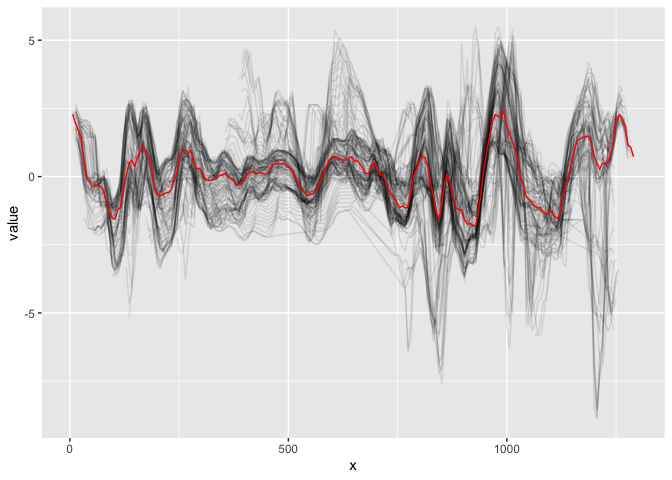
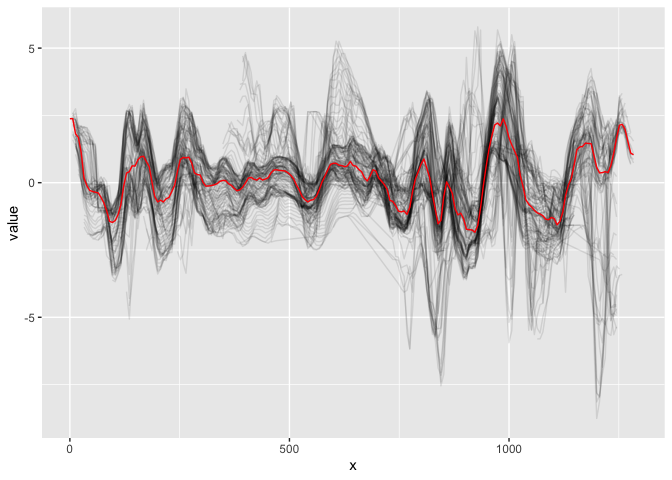
Unify changes in approx range with scaling

diff --git a/README.md b/README.md
@@ -7,7 +7,7 @@
 
 [![Lifecycle:
 experimental](https://img.shields.io/badge/lifecycle-experimental-orange.svg)](https://lifecycle.r-lib.org/articles/stages.html#experimental)
-[![Last-changedate](https://img.shields.io/badge/last%20change-2023--11--07-yellowgreen.svg)](https://github.com/YuhangTom/wire/commits/main)
+[![Last-changedate](https://img.shields.io/badge/last%20change-2023--11--18-yellowgreen.svg)](https://github.com/YuhangTom/wire/commits/main)
 [![Codecov test
 coverage](https://codecov.io/gh/YuhangTom/wire/branch/main/graph/badge.svg)](https://app.codecov.io/gh/YuhangTom/wire?branch=main)
 [![R-CMD-check](https://github.com/YuhangTom/wire/actions/workflows/R-CMD-check.yaml/badge.svg)](https://github.com/YuhangTom/wire/actions/workflows/R-CMD-check.yaml)
@@ -167,17 +167,17 @@ shift_sig <- x3p_shift_sig_vec(x3p_bin_rotate, ifplot = TRUE)
 
 <img src="man/figures/README-signal-6.png" width="100%" />
 
-    #> Warning: Removed 7661 rows containing missing values (`geom_line()`).
-    #> Warning: Removed 2 rows containing missing values (`geom_line()`).
+    #> Warning: Removed 7512 rows containing missing values (`geom_line()`).
+    #> Warning: Removed 1 row containing missing values (`geom_line()`).
 
 <img src="man/figures/README-signal-7.png" width="100%" />
 
 ``` r
 shift_sig %>%
   str()
-#> tibble [202 × 2] (S3: tbl_df/tbl/data.frame)
-#>  $ x  : num [1:202] 0 6.45 12.9 19.35 25.8 ...
-#>  $ sig: num [1:202] NA 2.29 1.94 1.73 1.44 ...
+#> tibble [201 × 2] (S3: tbl_df/tbl/data.frame)
+#>  $ x  : num [1:201] 0 6.45 12.9 19.35 25.8 ...
+#>  $ sig: num [1:201] 2.38 2.38 1.82 1.68 1.12 ...
 ```
 
 ## Signal alignment
@@ -192,9 +192,9 @@ vec_align_sigs_list(raw_sig$sig, shift_sig$sig, ifplot = TRUE) %>%
 <img src="man/figures/README-align-1.png" width="100%" />
 
     #> List of 3
-    #>  $ ccf  : num 0.99
+    #>  $ ccf  : num 0.981
     #>  $ lag  : num 0
     #>  $ lands:'data.frame':   200 obs. of  3 variables:
     #>   ..$ x   : int [1:200] 1 2 3 4 5 6 7 8 9 10 ...
     #>   ..$ sig1: num [1:200] 1.852 1.916 1.759 1.572 0.794 ...
-    #>   ..$ sig2: num [1:200] 2.29 1.94 1.73 1.44 0.66 ...
+    #>   ..$ sig2: num [1:200] 2.38 2.38 1.82 1.68 1.12 ...
